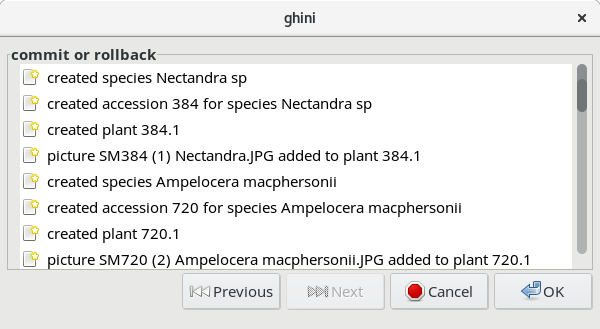
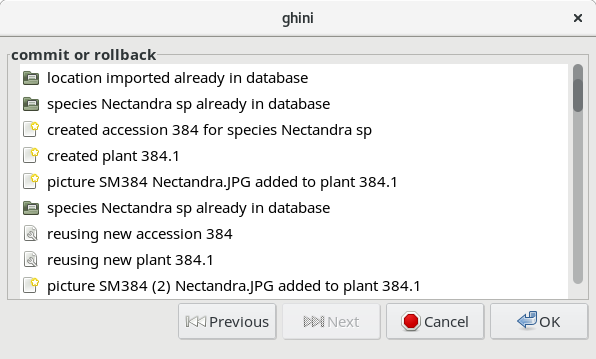
still fine tuning #225

diff --git a/bauble/plugins/garden/picture_importer.py b/bauble/plugins/garden/picture_importer.py
@@ -231,10 +231,16 @@ class PictureImporterPresenter(GenericEditorPresenter):
             location = self.model.location
             logger.log(11, 'location %s already in database' % (location, ))
         else:
-            location = Location(code=u'imported')
-            self.session.add(location)
-            logger.log(13, 'created new location %s' % (location, ))
-        local_store = {}
+            if self.model.location is None:
+                self.model.location = u'imported'
+            try:
+                location = self.session.query(Location).filter_by(code=unicode(self.model.location)).one()
+                logger.log(11, 'location %s already in database' % (location, ))
+            except NoResultFound, e:
+                location = Location(code=self.model.location)
+                self.session.add(location)
+                logger.log(13, 'created new location %s' % (location, ))
+
         # iterate over liststore content
         for row in self.review_rows:
             if not row[use_me_col]:
